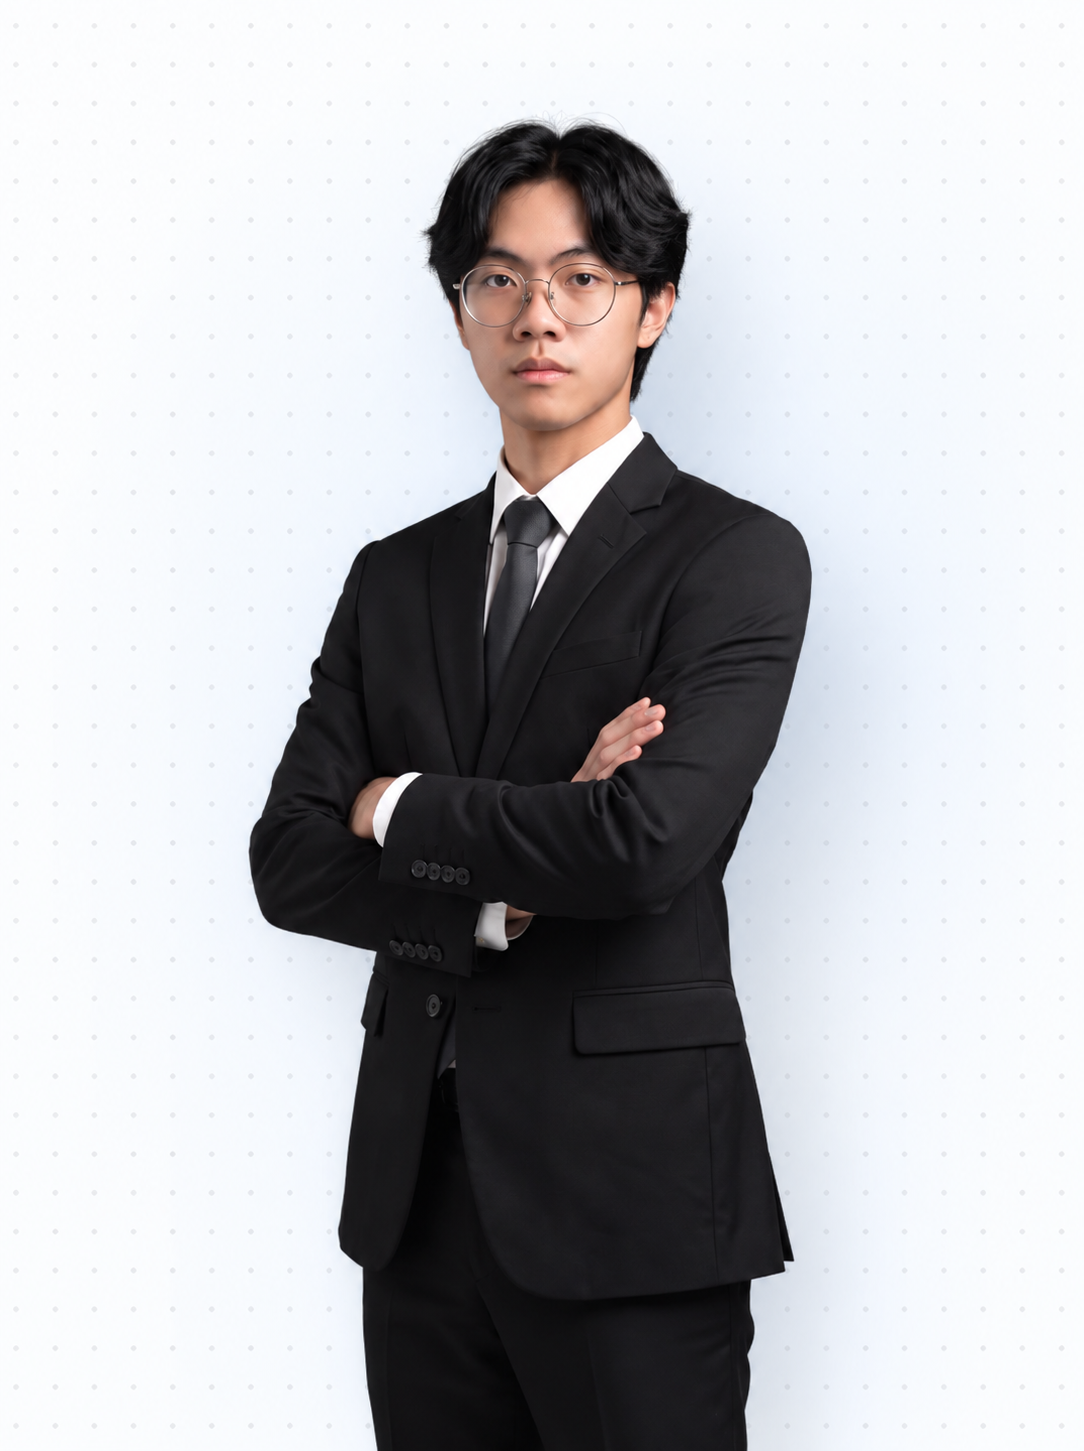
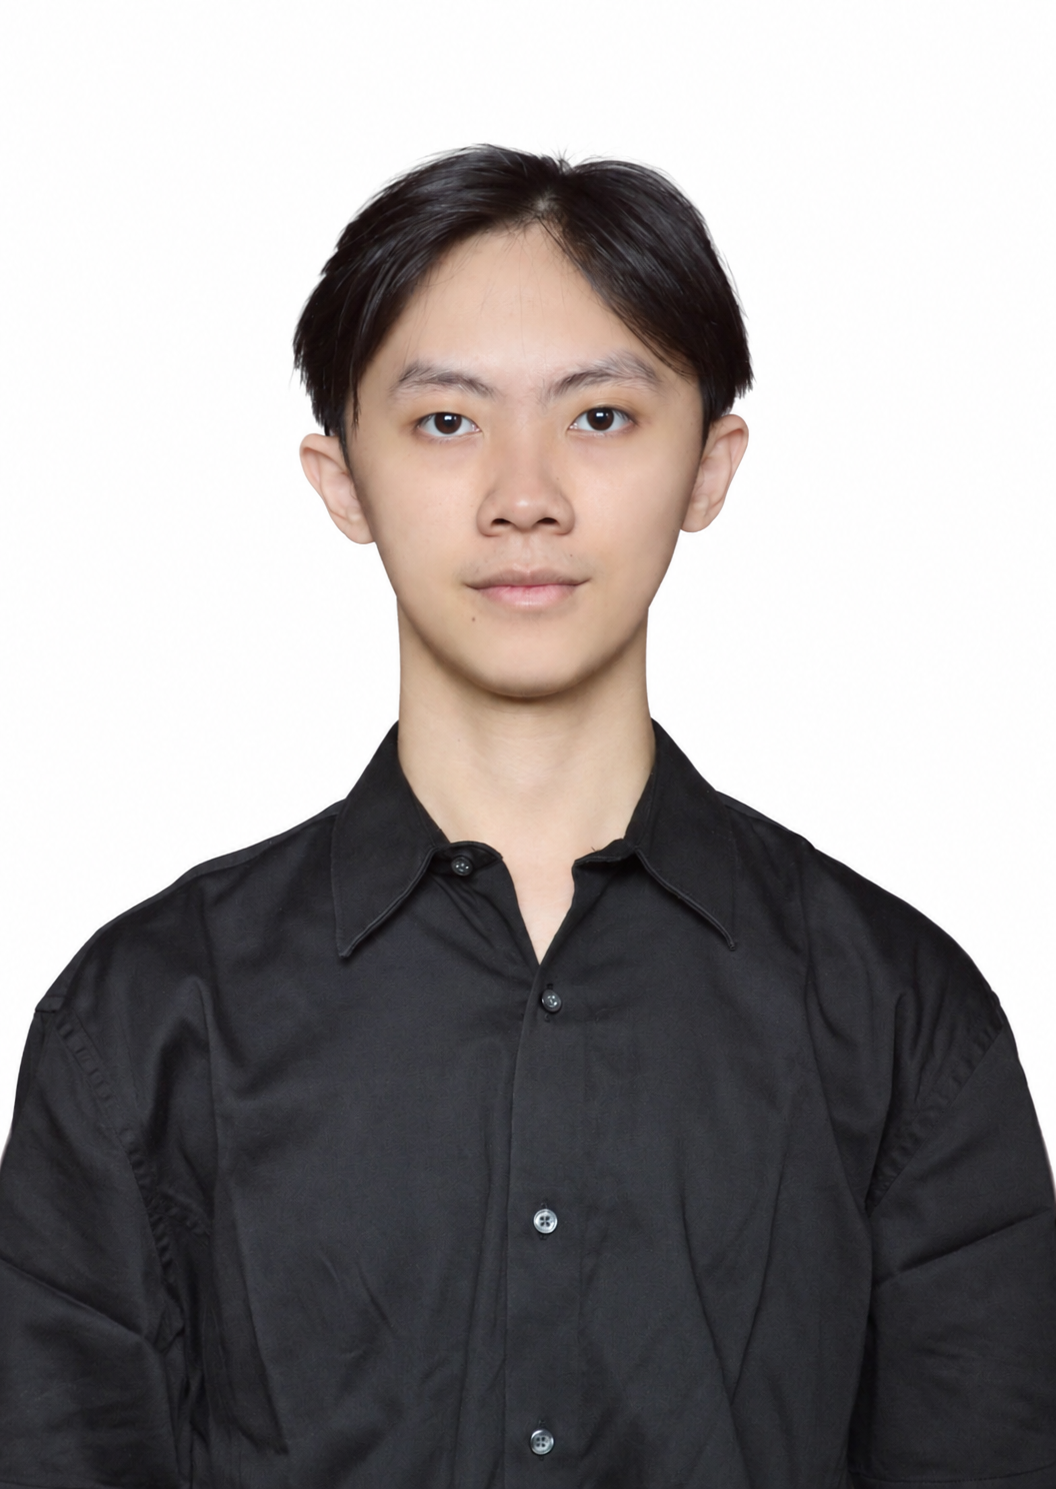
feat: update profile photo and optimize custom cursor speed

diff --git a/components/CustomCursor.tsx b/components/CustomCursor.tsx
@@ -10,7 +10,7 @@ export default function CustomCursor() {
   const cursorX = useMotionValue(-100);
   const cursorY = useMotionValue(-100);
 
-  const springConfig = { damping: 30, stiffness: 300, mass: 0.2 };
+  const springConfig = { damping: 20, stiffness: 700, mass: 0.1 };
   const cursorXSpring = useSpring(cursorX, springConfig);
   const cursorYSpring = useSpring(cursorY, springConfig);
 
